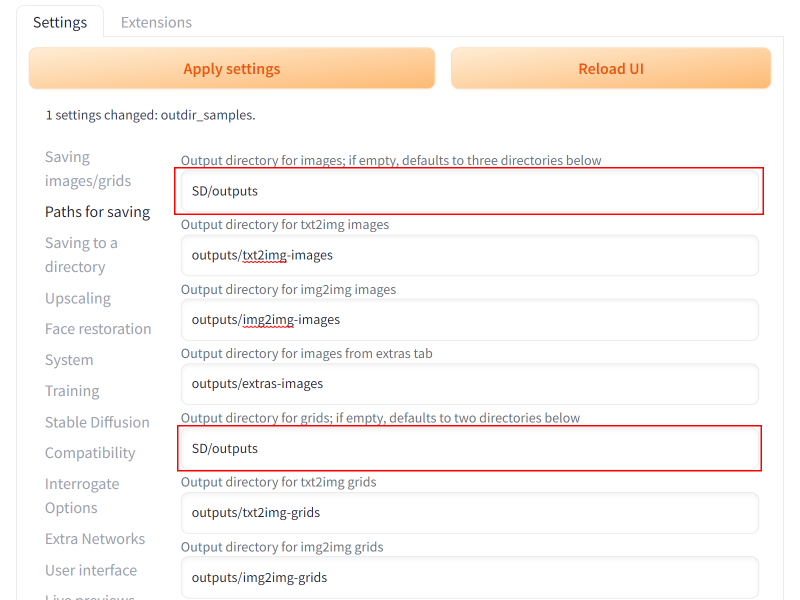
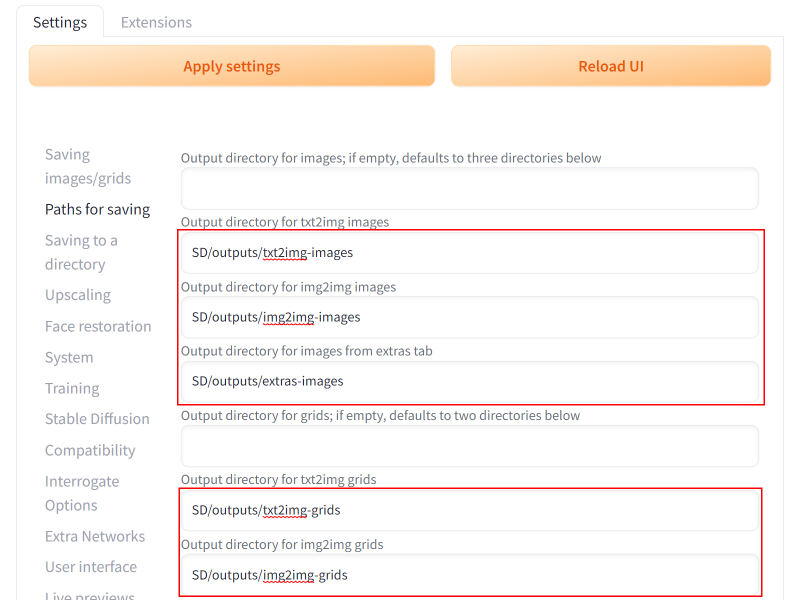
이미지 저장 경로 설명/이미지 수정  - 용도별로 다른 폴더 사용하도록

diff --git a/docs/colab/README.md b/docs/colab/README.md
@@ -150,7 +150,7 @@
 <br>
 
 ## 22. (선택 사항) 이미지 저장 경로 설정
-> 기본 저장 경로가 아닌 [작업 디렉터리 이름]에 설정 할 수 있습니다. <br>
+> 기본 저장 경로가 아닌 [작업 디렉터리 이름]/outputs에 설정 할 수 있습니다. <br>
 > ⚠ 구글 드라이브 연결시 구글에서 스캔할 수 있으니 사용에 주의 하세요
 
 ![image](../images/22_%EC%9D%B4%EB%AF%B8%EC%A7%80_%EC%A0%80%EC%9E%A5_%EA%B2%BD%EB%A1%9C_%EC%84%A4%EC%A0%95.png)
